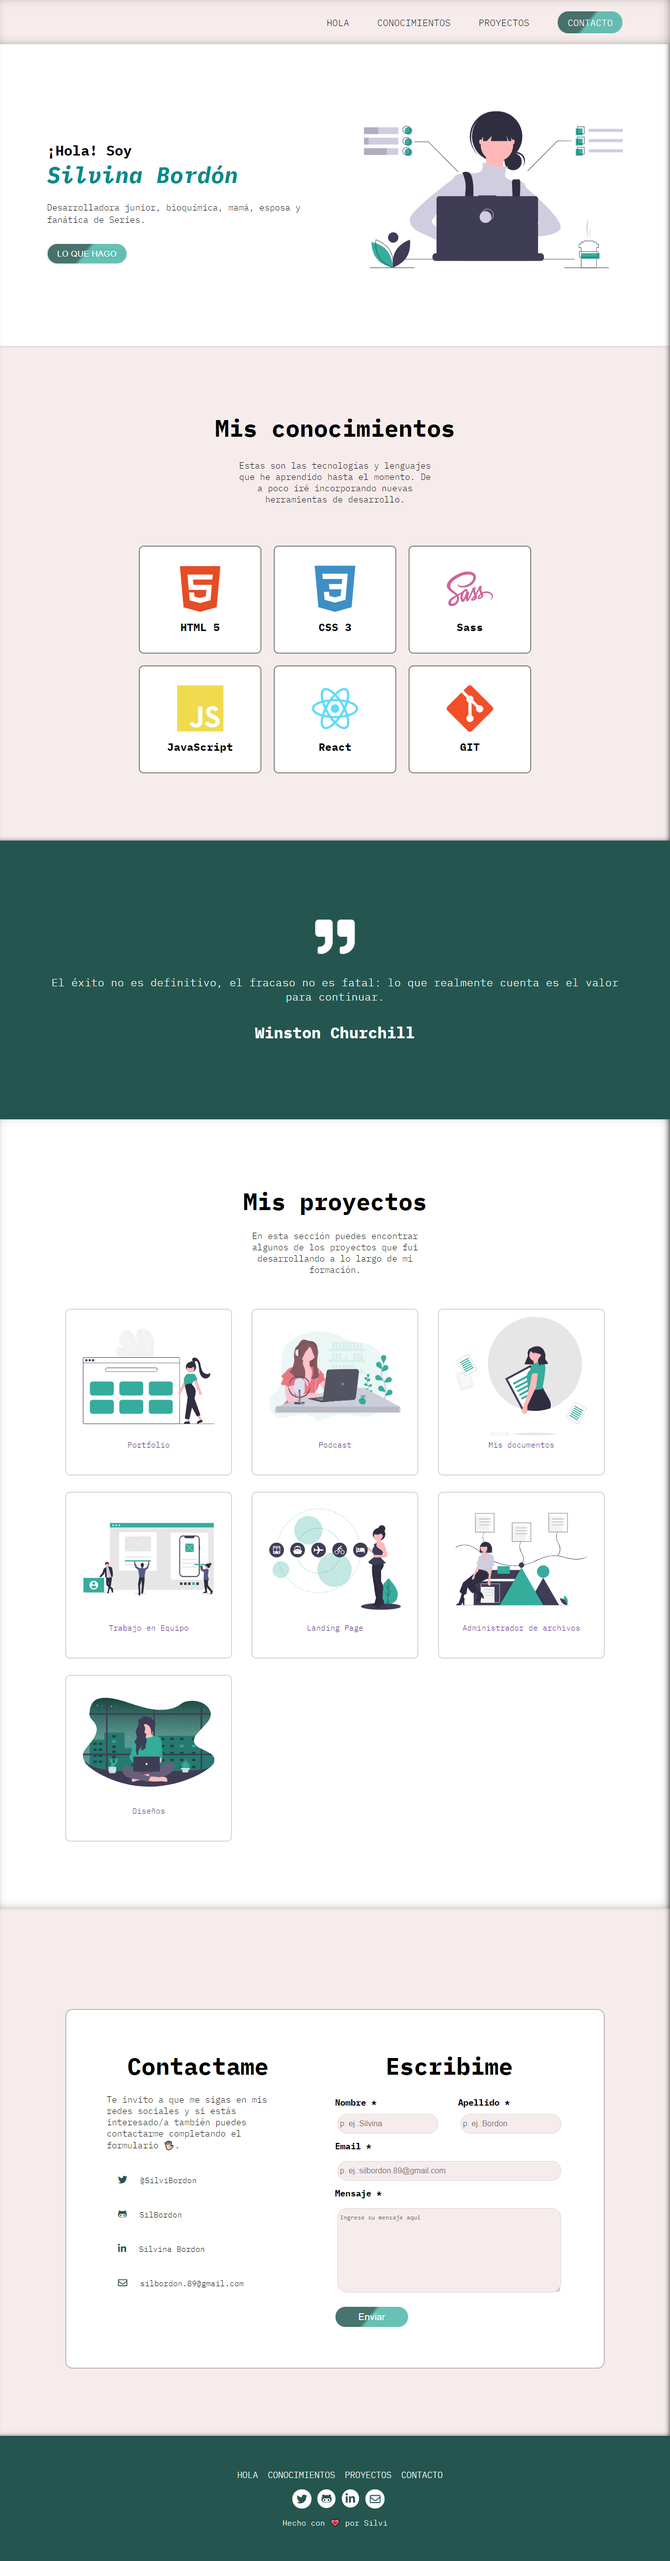
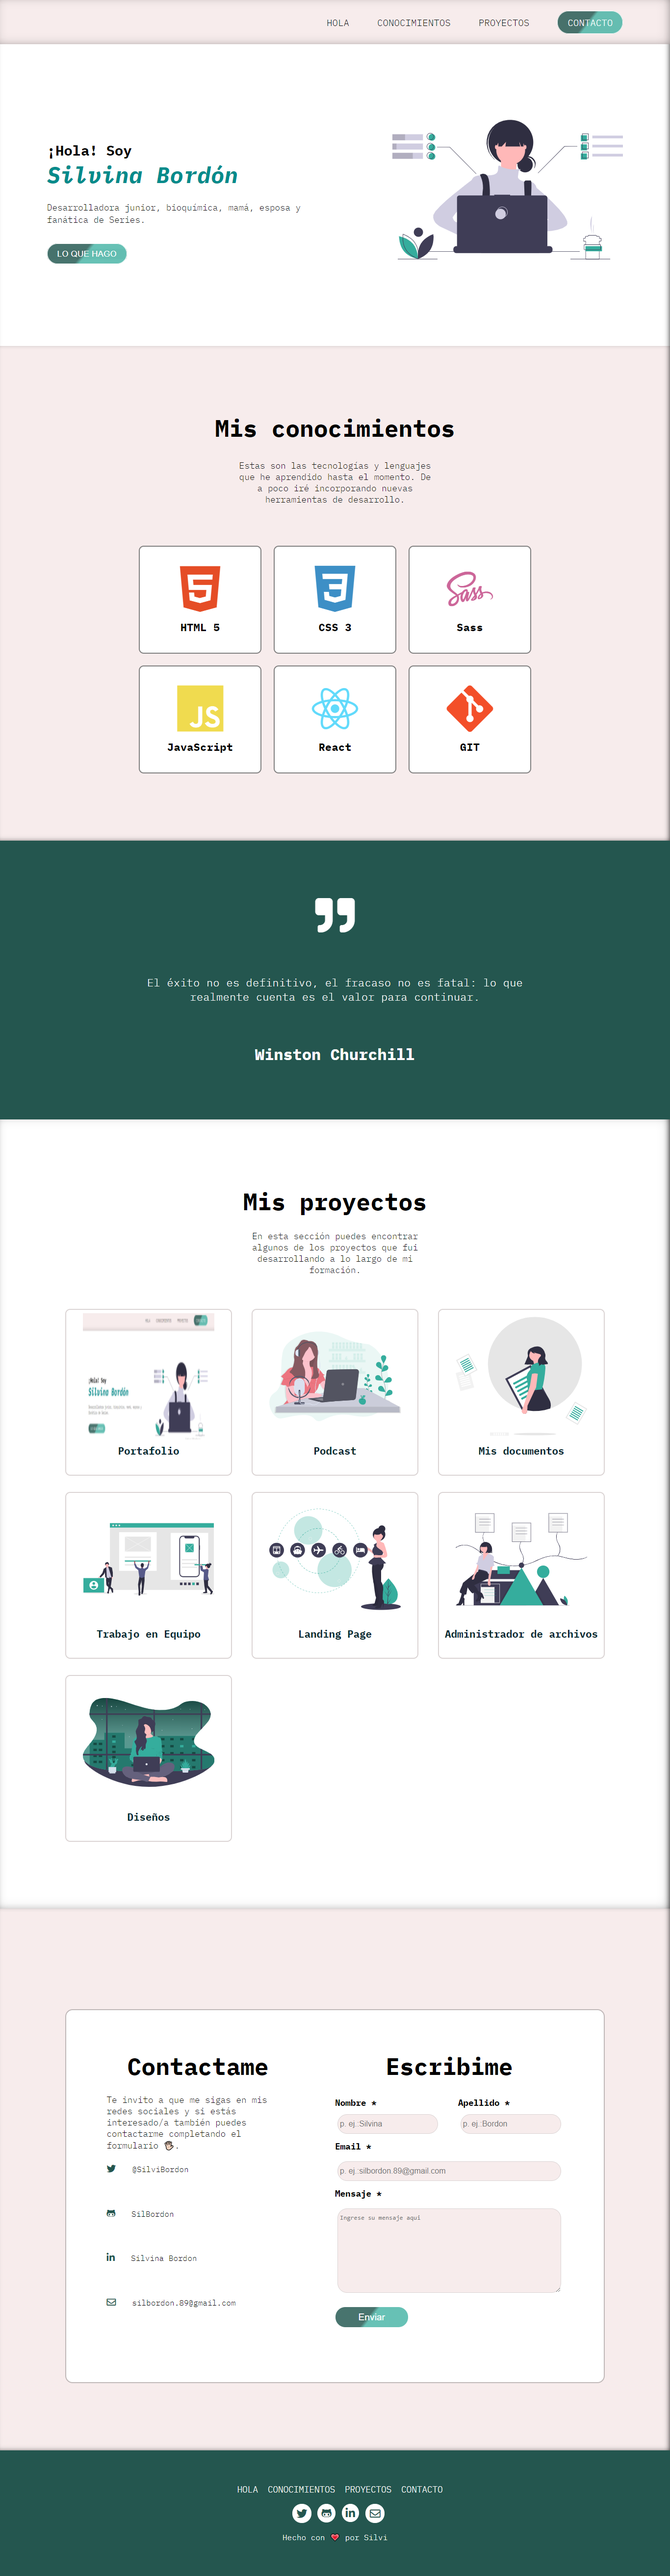
Se modifica imagen del portafolio en el readme, y para redes sociales

diff --git a/index.html b/index.html
@@ -15,7 +15,7 @@
     <meta property="og:site name" content="portfolio">
     <meta property="og:url" content="https://silbordon.github.io/Portfolio/">
     <meta property="og:image"
-        content="https://github.com/Silbordon/Portfolio/blob/master/images/portafolio.png?raw=true">
+        content="https://github.com/Silbordon/Portfolio/blob/master/images/captura-portafolio.png?raw=true">
     <meta property="og:image:width" content="200" />
     <meta property="og:image:height" content="150" />
 
